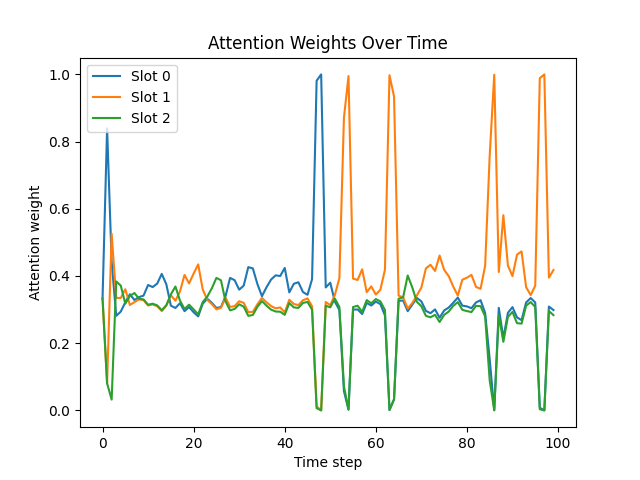
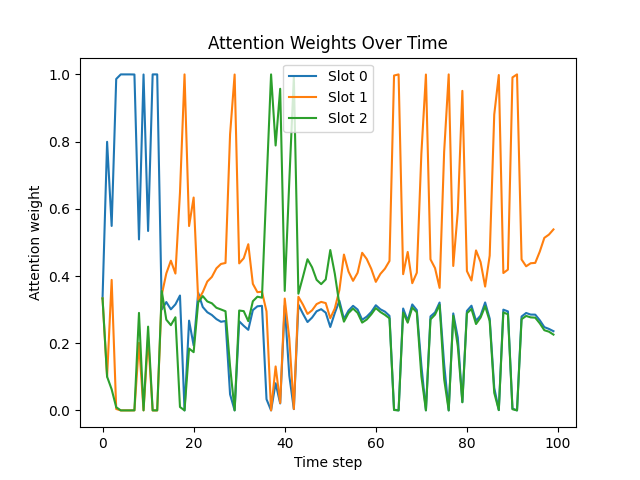
ok graphs and new delta heatmap plot

Changed region(s): [[0.125, 0.125, 0.875, 0.875], [0.0625, 0.5625, 0.125, 0.5938]]

diff --git a/complex_demo_hy.py b/complex_demo_hy.py
@@ -11,6 +11,7 @@ from plots import (
     plot_attention_stack,
     plot_commit_scatter,
     plot_delta_t_evolution,
+    plot_slot_delta_heatmap
 )
 
 # --- hyperparameters ---
@@ -29,7 +30,7 @@ DEVICE       = torch.device('cuda' if torch.cuda.is_available() else 'cpu')
 
 def make_complex_dataset(n,
                          baseline_mu=1.0, baseline_sigma=0.2,
-                         event_rate=0.1,
+                         event_rate=0.2,
                          spike_scale=10.0,
                          label_margin=1.2):
     """
@@ -40,11 +41,16 @@ def make_complex_dataset(n,
     """
     # 1) baseline noise around ~1.0
     X = np.random.normal(baseline_mu, baseline_sigma, size=(n, T))
-    # 2) draw event mask
+        # 2) draw event mask
     is_event = np.random.rand(n, T) < event_rate
+
+    # # ──> force the first 3 bars of every sequence to be events
+    # is_event[:, :3] = True
+
     # 3) heavy-tailed spikes
-    spikes = np.random.exponential(scale=spike_scale, size=(n, T))
+    spikes   = np.random.exponential(scale=spike_scale, size=(n, T))
     X[is_event] = spikes[is_event]
+
     # 4) labels: look at last 3 events and compare gaps & sums
     ys = []
     for seq in X:
@@ -115,12 +121,14 @@ def visualize_memory_dynamics(model, X, device):
     deltas     = np.stack(deltas)      # (T, n_slots)
     alphas     = np.stack(alphas)      # (T, n_slots)
     gammas     = np.array(gammas)      # (T,)
+    delta_vals = slot_vals[1:] - slot_vals[:-1]   # shape (T-1, n_slots)
 
     plot_slot_activation_heatmap(slot_vals)
     plot_attention_line        (alphas)
     plot_attention_stack       (alphas)
     plot_commit_scatter        (gammas, event_mask=None)
     plot_delta_t_evolution     (deltas)
+    plot_slot_delta_heatmap(delta_vals)
 
 
 def main():

diff --git a/plots.py b/plots.py
@@ -70,3 +70,16 @@ def plot_delta_t_evolution(delta_t):
     plt.title('Delta t Evolution Over Time')
     plt.legend()
     plt.savefig('figures/dt_over_time.png')
+
+def plot_slot_delta_heatmap(delta_values):
+    """
+    delta_values: numpy array of shape (seq_len-1, n_slots)
+    """
+    activation = delta_values.T    # (n_slots, seq_len-1)
+    plt.figure()
+    plt.imshow(activation, aspect='auto', origin='lower')
+    plt.xlabel('Time step')
+    plt.ylabel('Slot index')
+    plt.title('Slot‐Value Change Heatmap')
+    plt.colorbar(label='Δ Activation')
+    plt.savefig('figures/slot_delta_heatmap.png')
